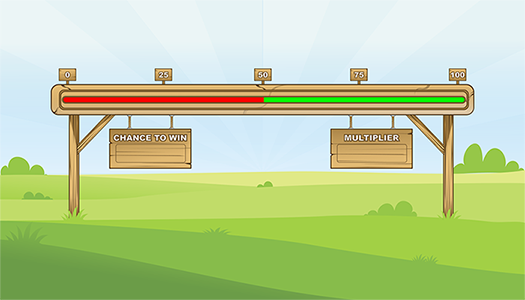
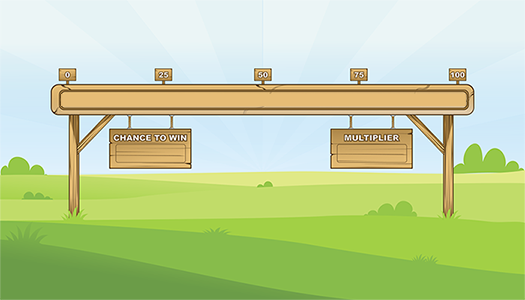
reviewd backgroun and moved up the animation

Changed region(s): [[0.1219, 0.3, 0.8838, 0.36]]

diff --git a/src/components/AlpacannonGameAnimation/index.js b/src/components/AlpacannonGameAnimation/index.js
@@ -114,7 +114,7 @@ const AlpacannonGameAnimation = ({
       <div className={styles.interpolateMultiplier}>
         <span>{interpolateMultiplier(slider).toFixed(2)}</span>
       </div>
-      <img className={styles.alpacaFlying} style={{ opacity: game === 'shoot' ? 1 : 0, bottom: game !== 'shoot' ? '10%':'43%', right: game !== 'shoot' ? (bet.crash > 65 ? '50%':bet.crash < 35?'32%':'41%') : `${bet.crashPosition}%`}} src={bet.crash < 35 ? "/images/cannon-games/alpaca-right.svg" : bet.crash > 65 ? "/images/cannon-games/alpaca-left.svg" : "/images/cannon-games/alpaca-center.svg" } alt="alpaca flying" />
+      <img className={styles.alpacaFlying} style={{ opacity: game === 'shoot' ? 1 : 0, bottom: game !== 'shoot' ? '30%':'43%', right: game !== 'shoot' ? (bet.crash > 65 ? '50%':bet.crash < 35?'32%':'41%') : `${bet.crashPosition}%`}} src={bet.crash < 35 ? "/images/cannon-games/alpaca-right.svg" : bet.crash > 65 ? "/images/cannon-games/alpaca-left.svg" : "/images/cannon-games/alpaca-center.svg" } alt="alpaca flying" />
       <img className={styles.alpacaCrash} style={{ opacity: game === 'crashed' ? 1 : 0, right: `${bet.crashPosition}%`}} src={bet.crash > 65 ? "/images/cannon-games/alpaca-crash-left.png" : bet.crash < 35 ? "/images/cannon-games/alpaca-crash.png" : "/images/cannon-games/alpaca-crash.png"} alt="alpaca crash" />
       <div className={styles.alpaResult} style={{ zIndex: game === 'crashed' ? 5:4, opacity: game === 'crashed' ? 1 : 0, right: `${bet.crashPosition}%`}}>
         <img src="/images/cannon-games/score.svg" alt="alpaca crash" />

diff --git a/src/components/AlpacannonGameAnimation/styles.module.scss b/src/components/AlpacannonGameAnimation/styles.module.scss
@@ -143,7 +143,7 @@
     width: 90px;
     bottom: 10%;
     //transform: scale(0.9, 0.9);
-    transition: bounce 1s ease-in-out, transform 1s, bottom 1s ease-out, right 1s ease-out;
+    transition: bounce 1s ease-in-out, transform 7.2s, bottom 1s ease-out, right 1s ease-out;
     position: absolute;
     right: 41%;
     z-index: 4;
@@ -151,7 +151,6 @@
     -moz-transition: bounce 1s ease-in-out, transform 7.2s, bottom 1s ease-out, right 1s ease-out;
     -ms-transition: bounce 1s ease-in-out, transform 7.2s, bottom 1s ease-out, right 1s ease-out;
     -o-transition: bounce 1s ease-in-out, transform 7.2s, bottom 1s ease-out, right 1s ease-out;
-    transition: bounce 1s ease-in-out, transform 7.2s, bottom 1s ease-out, right 1s ease-out;
     position: absolute;
     z-index: 1;
   }
